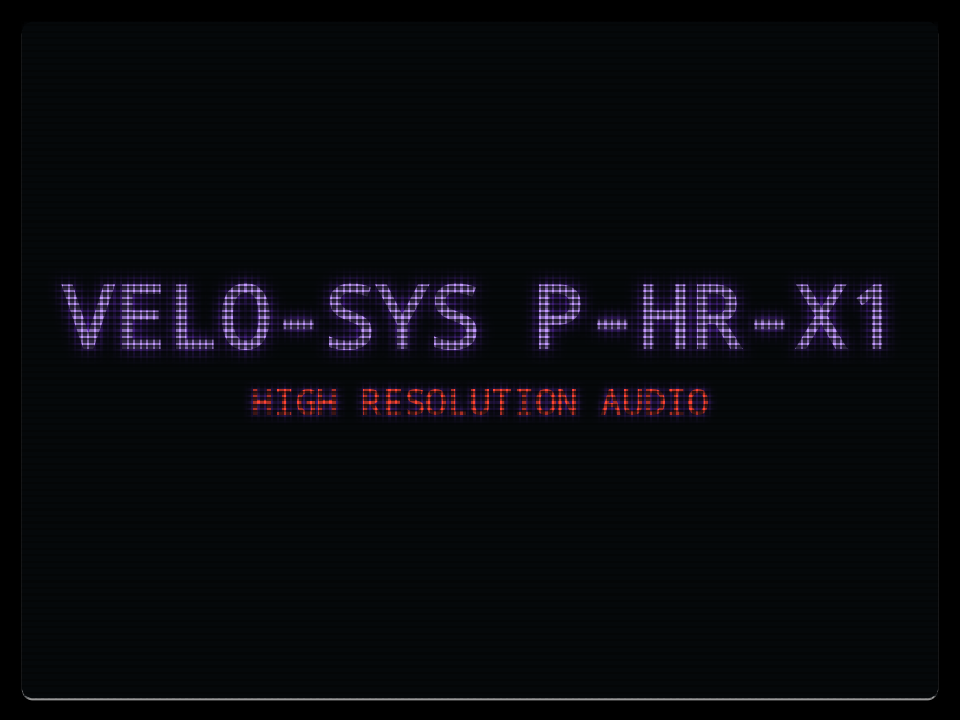
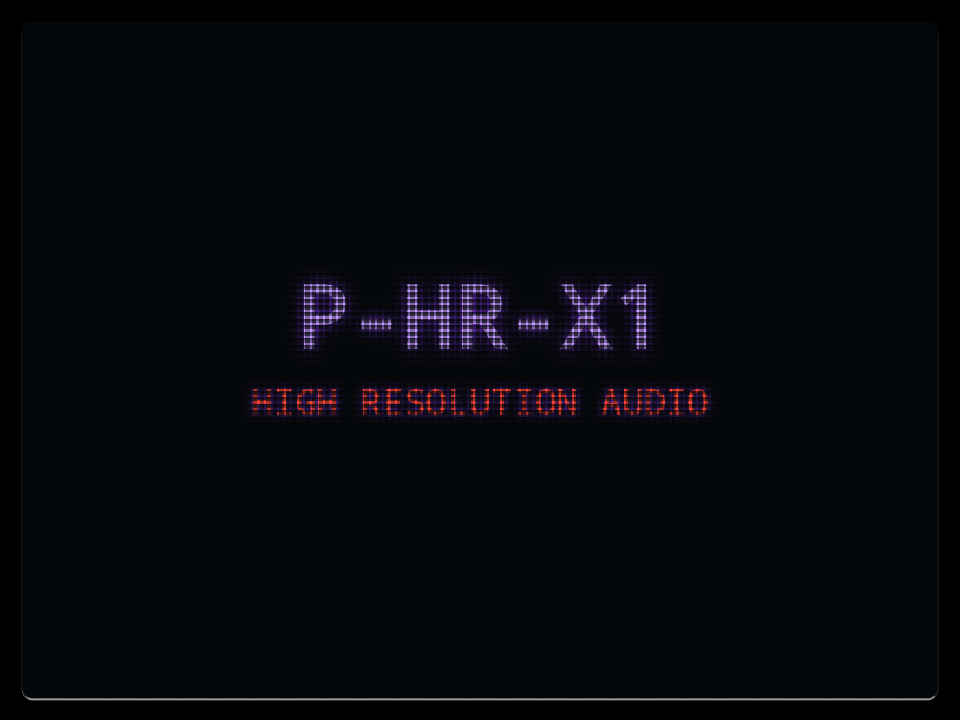
Print shows only the app name with the red block; bigger car in Night Drive
- header: "P-HR-X1" followed by the fixed red block, setup "P-HR-X1 / SETUP"
- boot animation, neofetch logo and host without any brand name
- Night Drive full screen: larger 38 px car sprite with wider tail lights
- docs: updated preview page and screenshots

Changed region(s): [[0.0625, 0.3667, 0.9375, 0.4889]]

diff --git a/docs/index.html b/docs/index.html
@@ -653,8 +653,7 @@ const VIZ = [
       p.px(cx - hw, y, c.v2, .5 + .5*tt); p.px(cx + hw, y, c.v2, .5 + .5*tt);
       const zz = 1/(tt + .02); if ((Math.floor(zz*.9 - c.st.off*6) & 1) === 0) { p.px(cx, y, c.lvc, .4 + .6*tt); if (!sm && tt > .4) p.px(cx + 1, y, c.lvc, .4 + .6*tt); } }
     const spr = sm ? ["...######...","..#wwwwww#..",".##########.","#LL######LL#",".TT......TT."]
-      : ["........############........",".......#wwwwwwwwwwww#.......","......#wwwwwwwwwwwwww#......",".....##################.....","...######################...","..########################..",
-         ".#LLLLLL############LLLLLL#.",".##########PPPPPP##########.",".##########################.","..TTTT................TTTT..","..TTTT................TTTT.."];
+      : ["...........################...........","..........#wwwwwwwwwwwwwwww#..........",".........#wwwwwwwwwwwwwwwwww#.........","........#wwwwwwwwwwwwwwwwwwww#........",".......########################.......","....##############################....","..##################################..",".####################################.","#LLLLLLLLL##################LLLLLLLLL#","#LLLLLLLLL##################LLLLLLLLL#","#############PPPPPPPPPPPP#############","######################################",".####################################.","..TTTTTT......................TTTTTT..","..TTTTTT......................TTTTTT.."];
     const bounce = Math.round(A.kick*(sm ? 1 : 2)), sx = Math.round(cx - spr[0].length/2 + Math.sin(t*.7)*(sm ? 1 : 3)*bandAt(A, .4)), sy = H - spr.length - (sm ? 0 : 3) - bounce;
     spr.forEach((row, r) => [...row].forEach((ch, k) => {
       if (ch === "#") p.px(sx + k, sy + r, mixc(c.vc, c.bg, .35), 1); else if (ch === "w") p.px(sx + k, sy + r, mixc(c.bg, c.vc, .2), 1);
@@ -817,7 +816,7 @@ class PixelDrum extends Pix {
 const SCREEN_HTML = `
 <div class="screen alu">
   <div class="layer pg-player alu">
-    <div class="head"><span class="h-l">VELO-SYS<i class="slash"></i>P-HR-X1</span><span class="h-r"><i class="box">Hi-Fi</i>Digital Audio</span></div>
+    <div class="head"><span class="h-l">P-HR-X1<i class="slash"></i></span><span class="h-r"><i class="box">Hi-Fi</i>Digital Audio</span></div>
     <div class="vfd main">
       <div class="ind"><span class="fmtgrp fmt js-fmt">MP3</span><span class="fmtgrp js-q1"></span><span class="fmtgrp js-q2"></span><span class="fmtgrp flag js-hires">HI-RES</span>
         <span class="sp"></span><span class="flag ico js-shuf"></span><span class="flag ico js-rep"></span><span class="flag ico js-sleep"></span></div>
@@ -956,7 +955,7 @@ function createPlayer(host) {
     q(".wt").textContent = "[ " + T[name] + " ]";
     let body = "", foot = "B = ZURÜCK";
     if (name === "keys") body = "A ....... PLAY / PAUSE\nB ....... ORDNER (BASH)\nSTART ... OPTIONEN\nSELECT .. VISUALIZER VOLLBILD\n▲▼ ...... WALZE / ORDNER\n◀▶ ...... LIED · HALTEN=SPULEN\nX / Y ... ZUFALL / WIEDERH.\nVOL ± ... LAUTSTÄRKE";
-    if (name === "about") body = "VELO-SYS P-HR-X1\nY2K PLAYER 0.4\n\nOFFLINE · KEINE WERBUNG\nKEIN TRACKING · KEIN KONTO\n\n" + N + " ORDNER · " + TOTAL + " LIEDER";
+    if (name === "about") body = "P-HR-X1\nY2K PLAYER 0.4\n\nOFFLINE · KEINE WERBUNG\nKEIN TRACKING · KEIN KONTO\n\n" + N + " ORDNER · " + TOTAL + " LIEDER";
     if (name === "reset") { body = "ALLE OPTIONEN AUF\nWERKSEINSTELLUNG SETZEN?\n\nDEINE MUSIK BLEIBT\nUNBERÜHRT."; foot = "A = JA · B = NEIN"; }
     if (name === "empty") { body = "IN /Music WURDEN KEINE\nORDNER MIT LIEDERN GEFUNDEN.\n\nMUSIK PER USB ODER\nSD-KARTE NACH /Music\nKOPIEREN."; foot = "A = NEU SUCHEN · B = ZURÜCK"; }
     q(".wb").innerHTML = body; q(".wf").textContent = foot;
@@ -982,7 +981,7 @@ function createPlayer(host) {
     const end = () => { if (!hold) { st.mode = "player"; render(); } };
     if (type === 0) {
       cv.style.display = "none"; box.style.display = "";
-      const l1 = "VELO-SYS P-HR-X1";
+      const l1 = "P-HR-X1";
       const seq = () => {
         box.innerHTML = `<div class="b1">88:88 8888</div><div class="b2">████████████████</div><div class="b3">MP3 FLAC M4A WAV HI-RES RDM RPT SLP</div>`;
         at(700, () => box.innerHTML = "");
@@ -995,14 +994,14 @@ function createPlayer(host) {
     } else {
       box.style.display = "none"; cv.style.display = "";
       const p = new Pix(cv), vc = hex2rgb(COLORS[o.color][1]);
-      const w1 = textW("VELO-SYS", 2), w2 = textW("P-HR-X1", 2), w3 = textW("HIGH RESOLUTION AUDIO");
+      const w1 = textW("P-HR-X1", 3), w2 = textW("Y2K PLAYER", 2), w3 = textW("HIGH RESOLUTION AUDIO");
       const pts = []; for (let y = 0; y < p.H; y++) for (let x = 0; x < p.W; x++) pts.push(Math.random());
       let t0 = performance.now();
       saverAnim = setInterval(() => {
         const t = (performance.now() - t0)/1600; p.clear([0,0,0]);
         const m = (X, Y) => pts[Y*p.W + X] < t;
-        p.text("VELO-SYS", (p.W - w1) >> 1, 30, 2, vc, 1, m);
-        p.text("P-HR-X1", (p.W - w2) >> 1, 58, 2, vc, .9, m);
+        p.text("P-HR-X1", (p.W - w1) >> 1, 26, 3, vc, 1, m);
+        p.text("Y2K PLAYER", (p.W - w2) >> 1, 58, 2, vc, .9, m);
         if (t > 1.1) p.text("HIGH RESOLUTION AUDIO", (p.W - w3) >> 1, 84, 1, vc, Math.min(1, (t-1.1)*3));
         p.flush();
         if (t > 2.2) { if (hold) t0 = performance.now(); else { clearInterval(saverAnim); end(); } }

diff --git a/app/src/main/java/de/y2k/player/DeckView.kt b/app/src/main/java/de/y2k/player/DeckView.kt
@@ -32,7 +32,7 @@ class DeckView(ctx: Context) : View(ctx), Choreographer.FrameCallback {
     // feste Aufdruck-Farben (gehören zum Gehäuse, nicht zum Farbschema)
     private val PRINT_RED = 0xE0302A
     // Aufdruck – bewusst keine fremden Marken (kein Herstellername, kein Hi-Res-AUDIO-Logo)
-    private val BRAND = "VELO-SYS"; private val BADGE = "Hi-Fi"
+    private val BRAND = "P-HR-X1"; private val BADGE = "Hi-Fi"
 
     // ---------- Zustand ----------
     private var mode = "boot"          // player | term | opt | win | viz | boot
@@ -227,12 +227,11 @@ class DeckView(ctx: Context) : View(ctx), Choreographer.FrameCallback {
     }
 
     private fun drawPlayer(c: Canvas, now: Long) {
-        // Aufdruck (folgt dem Farbschema: Akzente in der Zweitfarbe)
+        // Aufdruck: App-Name mit festem rotem Block dahinter
         text(c, BRAND, 12f, 17f, 15f, 0x15181B, sansBI, glow = false)
         val kw = tw(BRAND, 15f, sansBI)
         path.reset(); path.moveTo(12 + kw + 7, 18f); path.lineTo(12 + kw + 11, 5f); path.lineTo(12 + kw + 18, 5f); path.lineTo(12 + kw + 14, 18f); path.close()
         fp.shader = null; fp.color = Col.argb(PRINT_RED); c.drawPath(path, fp)
-        text(c, "P-HR-X1", 12 + kw + 22, 17f, 15f, 0x15181B, sansBI, glow = false)
         val dw = tw("Digital Audio", 10f, sansBI); val hw = tw(BADGE, 10f, sansBI)
         fp.shader = LinearGradient(0f, 6f, 0f, 17f, intArrayOf(0xFFF3D27A.toInt(), 0xFFD4A62A.toInt(), 0xFFB8861B.toInt()), null, Shader.TileMode.CLAMP)
         c.drawRect(428 - dw - hw - 16, 6f, 428 - dw - 4, 17f, fp); fp.shader = null
@@ -600,7 +599,7 @@ class DeckView(ctx: Context) : View(ctx), Choreographer.FrameCallback {
         val t = now - bootStart
         fp.color = 0xFF000000.toInt(); c.drawRect(0f, 0f, LW, LH, fp)
         vfdBox(c, 10f, 10f, 430f, 320f)
-        val l1 = "$BRAND P-HR-X1"
+        val l1 = BRAND
         when {
             t < 700 -> { text(c, "88:88 8888", 220f, 150f, 40f, vc, align = Paint.Align.CENTER); text(c, "████████████████", 220f, 180f, 16f, vc, align = Paint.Align.CENTER)
                 text(c, "MP3 FLAC WAV DSD HI-RES RDM RPT SLP", 220f, 205f, 13f, v2, align = Paint.Align.CENTER) }

diff --git a/app/src/main/java/de/y2k/player/Viz.kt b/app/src/main/java/de/y2k/player/Viz.kt
@@ -234,9 +234,7 @@ class Skyline : Vis() {
 
 /** Nachtfahrt: Auto fährt in den Sonnenuntergang, Tempo = Energie der Musik, Sternschnuppen */
 private val CAR = listOf(
-    "........############........", ".......#wwwwwwwwwwww#.......", "......#wwwwwwwwwwwwww#......", ".....##################.....",
-    "...######################...", "..########################..", ".#LLLLLL############LLLLLL#.", ".##########PPPPPP##########.",
-    ".##########################.", "..TTTT................TTTT..", "..TTTT................TTTT..")
+    "...........################...........", "..........#wwwwwwwwwwwwwwww#..........", ".........#wwwwwwwwwwwwwwwwww#.........", "........#wwwwwwwwwwwwwwwwwwww#........", ".......########################.......", "....##############################....", "..##################################..", ".####################################.", "#LLLLLLLLL##################LLLLLLLLL#", "#LLLLLLLLL##################LLLLLLLLL#", "#############PPPPPPPPPPPP#############", "######################################", ".####################################.", "..TTTTTT......................TTTTTT..", "..TTTTTT......................TTTTTT..")
 private val CAR_S = listOf("...######...", "..#wwwwww#..", ".##########.", "#LL######LL#", ".TT......TT.")
 class NightDrive : Vis() {
     private class Sh(var x: Float, var y: Float, val vx: Float, val vy: Float, var l: Float)

diff --git a/app/src/main/java/de/y2k/player/SysInfo.kt b/app/src/main/java/de/y2k/player/SysInfo.kt
@@ -17,7 +17,7 @@ import java.io.File
 object SysInfo {
     val LOGO = listOf(
         " .-----------. ",
-        " | VELO-SYS >| ",
+        " |  Y2K   >> | ",
         " |===========| ",
         " | (@)   (@) | ",
         " |  P-HR-X1  | ",
@@ -28,7 +28,7 @@ object SysInfo {
     /** Liste aus (Bezeichnung, Wert); Bezeichnung leer = Überschrift */
     fun lines(ctx: Context): List<Pair<String, String>> {
         val out = ArrayList<Pair<String, String>>()
-        out += "" to "p-hr-x1@velo-sys"
+        out += "" to "p-hr-x1@deck"
         out += "" to "-------------------"
         out += "OS" to "Android ${Build.VERSION.RELEASE} (API ${Build.VERSION.SDK_INT})"
         out += L("Gerät", "Device") to "${Build.MANUFACTURER.replaceFirstChar { it.uppercase() }} ${Build.MODEL}".replace("_", " ")
